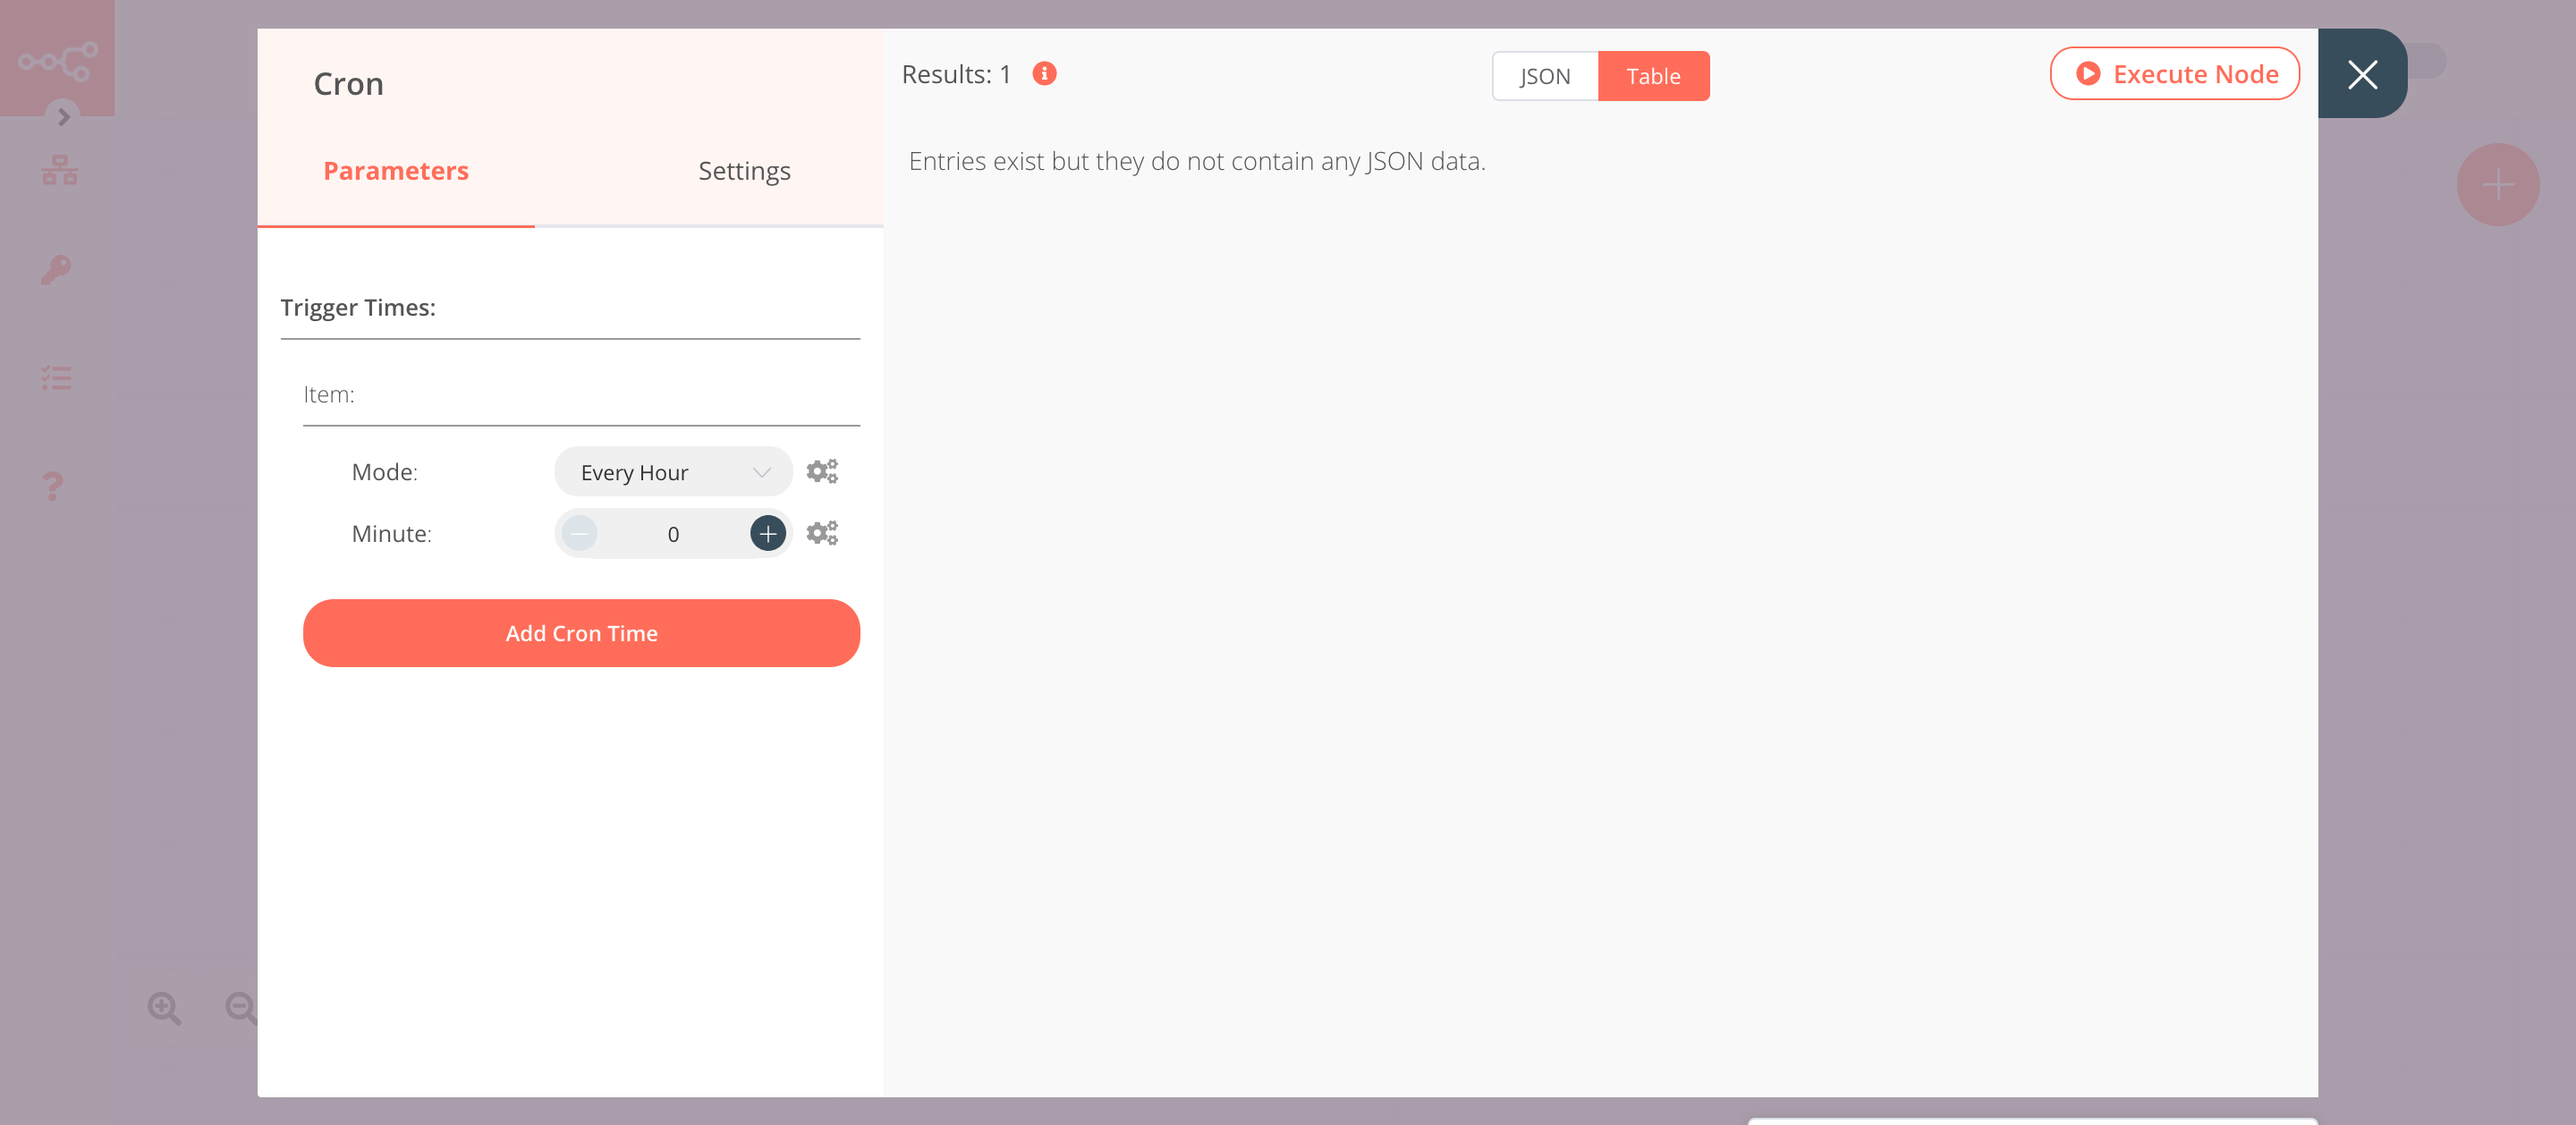
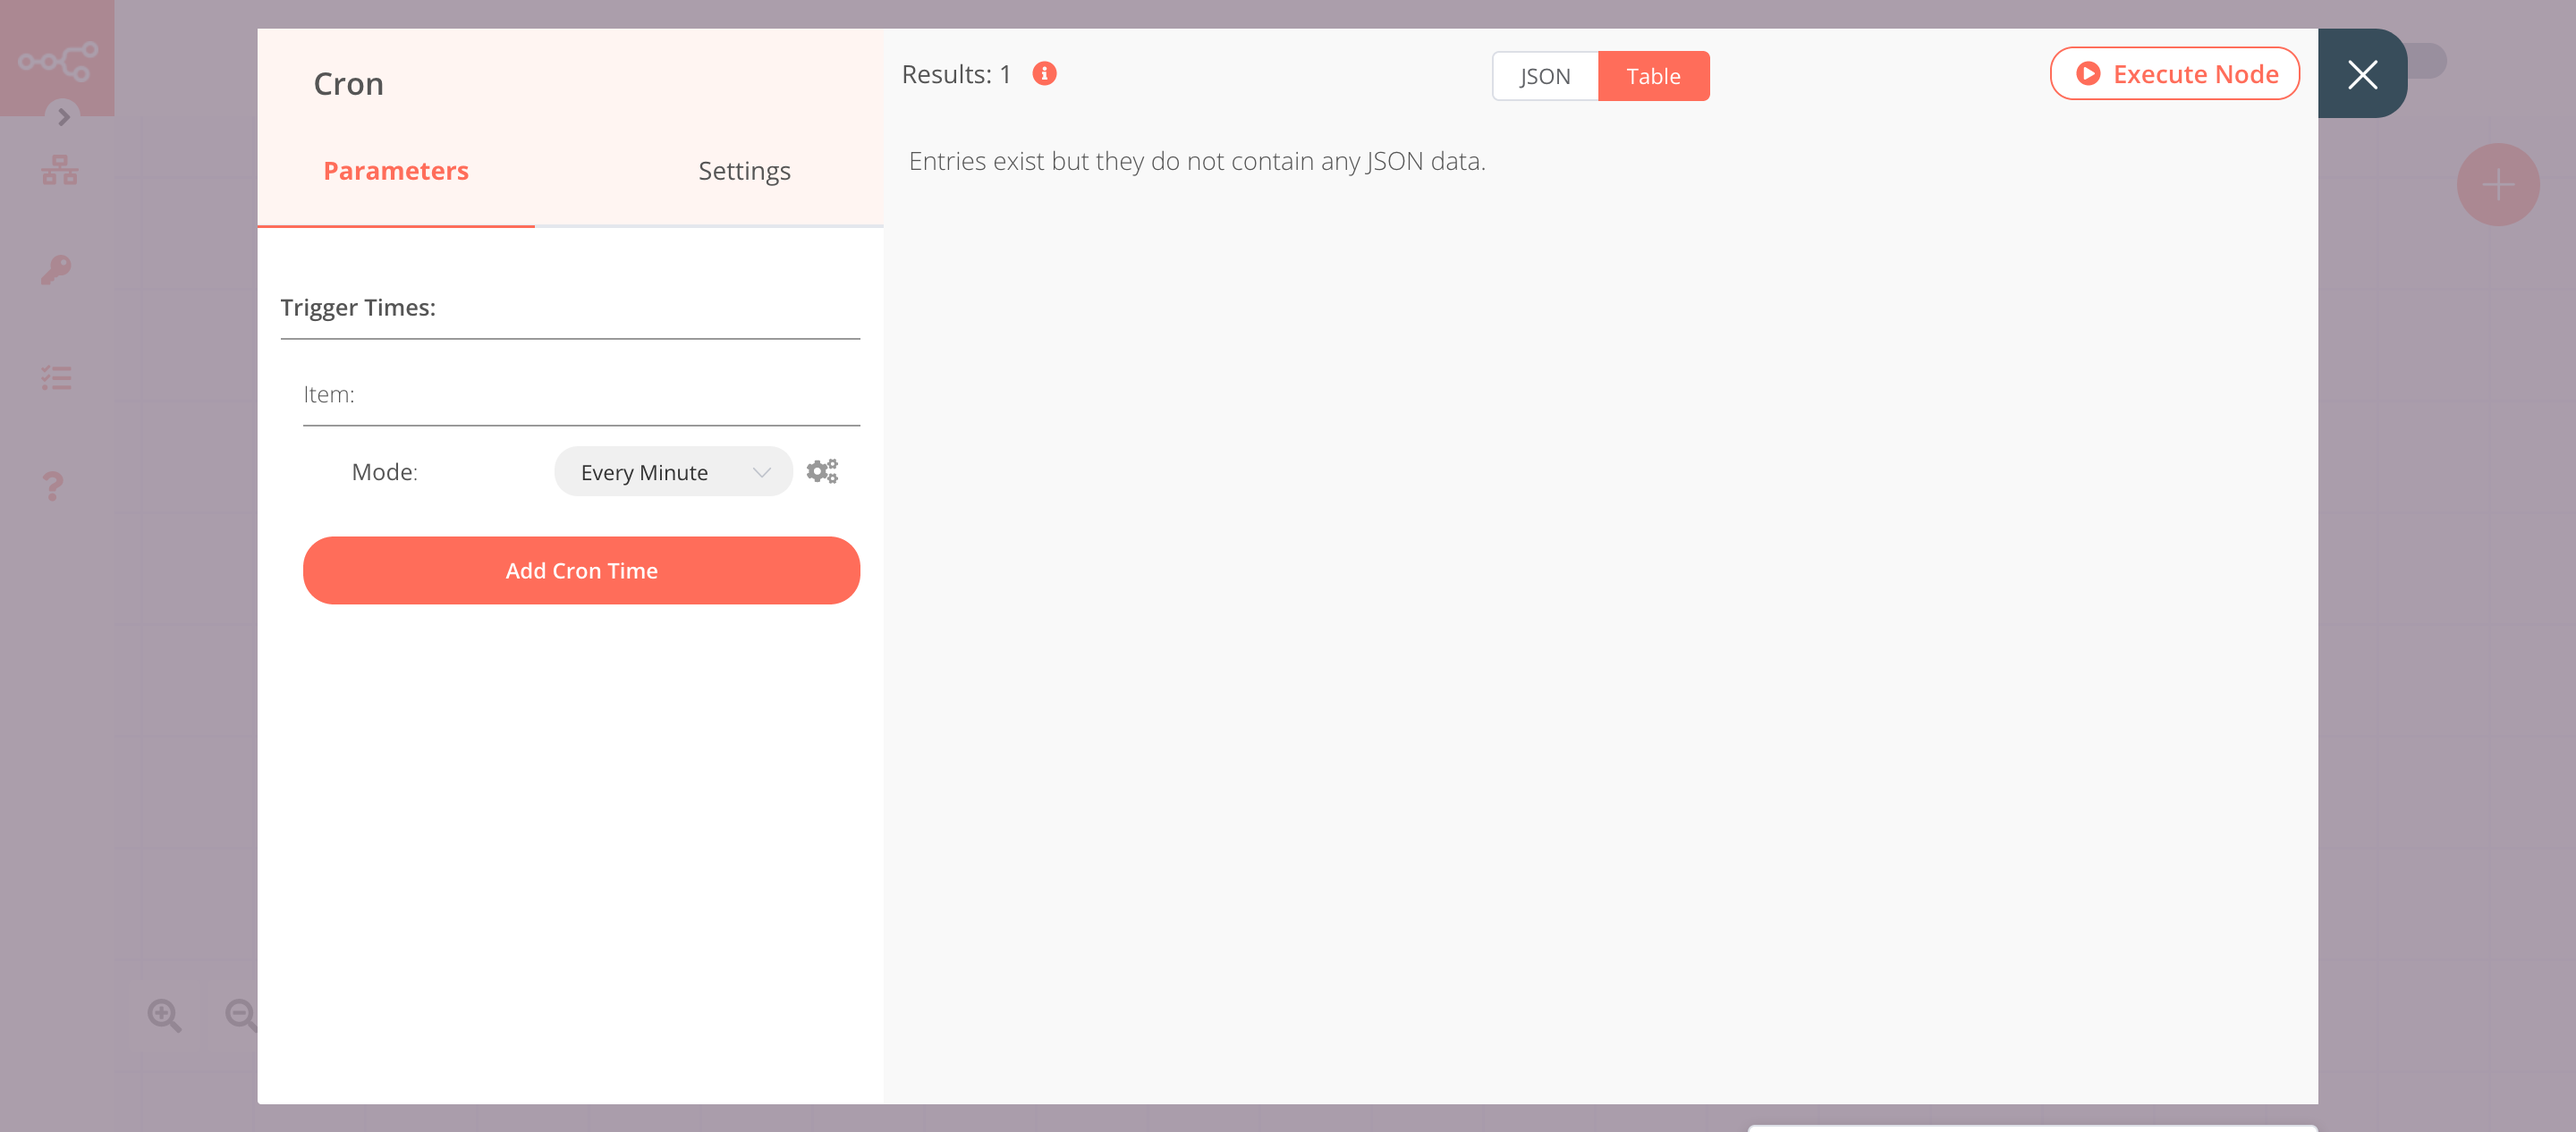
🔨 Minor changes

diff --git a/docs/nodes/nodes-library/nodes/CoinGecko/README.md b/docs/nodes/nodes-library/nodes/CoinGecko/README.md
@@ -44,10 +44,10 @@ The final workflow should look like the following image.
 
 ### 1. Cron node
 
-The Cron node will trigger the workflow every hour.
+The Cron node will trigger the workflow every minute.
 
 1. Click on ***Add Cron Time***.
-2. Select 'Every Hour' from the ***Mode*** dropdown list.
+2. Select 'Every Minute' from the ***Mode*** dropdown list.
 3. Click on ***Execute Node*** to run the node.
 
 ![Using the Cron node to trigger the workflow](./Cron_node.png)
@@ -103,6 +103,8 @@ In the screenshot below, you will notice that the node sends an SMS with the pri
 
 ::: v-pre
 ### 5. NoOp node
+
+Adding this node here is optional, as the absence of this node won't make a difference to the functioning of the workflow.
 
 1. Create a ***NoOp*** node connected to the 'false' output of the IF node.
 2. Click on ***Execute Node*** to run the node.
